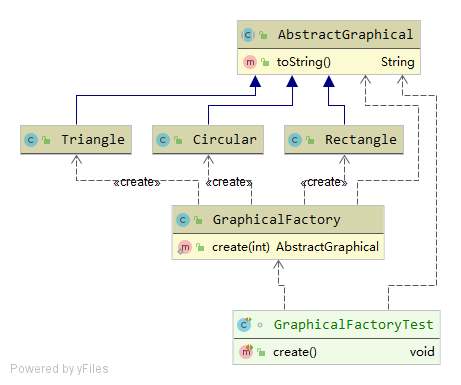
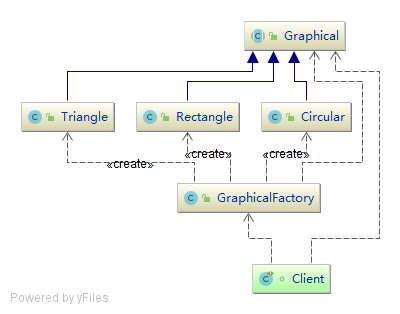
工厂模式🏗

diff --git a/factory/src/test/java/io/github/lvgocc/factory/method/AbstractGraphicalFactoryTest.java b/factory/src/test/java/io/github/lvgocc/factory/method/AbstractGraphicalFactoryTest.java
@@ -5,27 +5,29 @@ import org.junit.jupiter.api.Test;
 /**
  * 工厂方法测试类
  *
+ * client
+ *
  * @author lvgorice@gmail.com
  * @date 2020/10/8 23:28
  * @since 1.0.0
  */
-class AbstractFactoryTest {
+class AbstractGraphicalFactoryTest {
 
     @Test
     void creat() {
-        AbstractFactory circularFactory = new CircularFactory();
+        AbstractGraphicalFactory circularFactory = new CircularFactory();
         Graphical circular = circularFactory.creat();
         circular.description();
 
         System.out.println();
 
-        AbstractFactory rectangleFactory = new RectangleFactory();
+        AbstractGraphicalFactory rectangleFactory = new RectangleFactory();
         Graphical rectangle = rectangleFactory.creat();
         rectangle.description();
 
         System.out.println();
 
-        AbstractFactory triangleFactory = new TriangleFactory();
+        AbstractGraphicalFactory triangleFactory = new TriangleFactory();
         Graphical triangle = triangleFactory.creat();
         triangle.description();
     }

diff --git a/factory/src/test/java/io/github/lvgocc/factory/simple/GraphicalFactoryTest.java b/factory/src/test/java/io/github/lvgocc/factory/simple/GraphicalFactoryTest.java
@@ -6,6 +6,8 @@ import org.junit.jupiter.api.Test;
 /**
  * 图形工厂测试类
  *
+ * client
+ *
  * @author lvgorice@gmail.com
  * @date 2020/10/8 22:17
  * @since 1.0.0
@@ -14,13 +16,13 @@ class GraphicalFactoryTest {
 
     @Test
     void create() {
-        final AbstractGraphical circular = GraphicalFactory.create(0);
+        final Graphical circular = GraphicalFactory.create(0);
         Assertions.assertEquals(circular.toString(), "Circular");
 
-        final AbstractGraphical rectangle = GraphicalFactory.create(1);
+        final Graphical rectangle = GraphicalFactory.create(1);
         Assertions.assertEquals(rectangle.toString(), "Rectangle");
 
-        final AbstractGraphical triangle = GraphicalFactory.create(2);
+        final Graphical triangle = GraphicalFactory.create(2);
         Assertions.assertEquals(triangle.toString(), "Triangle");
     }
 }

diff --git a/factory/src/main/java/io/github/lvgocc/factory/method/AbstractGraphicalFactory.java b/factory/src/main/java/io/github/lvgocc/factory/method/AbstractGraphicalFactory.java
@@ -10,8 +10,8 @@ import org.slf4j.LoggerFactory;
  * @date 2020/10/8 23:16
  * @since 1.0.0
  */
-public abstract class AbstractFactory {
-    Logger logger = LoggerFactory.getLogger(AbstractFactory.class);
+public abstract class AbstractGraphicalFactory {
+    Logger logger = LoggerFactory.getLogger(AbstractGraphicalFactory.class);
 
     /**
      * 创建一个图形

diff --git a/factory/src/main/java/io/github/lvgocc/factory/method/CircularFactory.java b/factory/src/main/java/io/github/lvgocc/factory/method/CircularFactory.java
@@ -9,7 +9,7 @@ import io.github.lvgocc.factory.util.ThreadUtil;
  * @date 2020/10/8 23:27
  * @since 1.0.0
  */
-public class CircularFactory extends AbstractFactory {
+public class CircularFactory extends AbstractGraphicalFactory {
     /**
      * 将创建复杂的圆形过程封装到工厂里。
      * 1. 选定圆形位置；

diff --git a/factory/src/test/java/io/github/lvgocc/factory/simple/AbstractGraphicalTest.java b/factory/src/test/java/io/github/lvgocc/factory/simple/AbstractGraphicalTest.java
@@ -14,7 +14,7 @@ class AbstractGraphicalTest {
 
     @Test
     void testToString() {
-        final AbstractGraphical abstractGraphical = new AbstractGraphical() {
+        final Graphical abstractGraphical = new Graphical() {
         };
         Assertions.assertEquals(abstractGraphical.toString(), "");
     }

diff --git a/factory/src/main/java/io/github/lvgocc/factory/method/TriangleFactory.java b/factory/src/main/java/io/github/lvgocc/factory/method/TriangleFactory.java
@@ -9,7 +9,7 @@ import io.github.lvgocc.factory.util.ThreadUtil;
  * @date 2020/10/8 23:52
  * @since 1.0.0
  */
-public class TriangleFactory extends AbstractFactory {
+public class TriangleFactory extends AbstractGraphicalFactory {
 
     /**
      * 通过三角形工厂创建一个复杂的三角形

diff --git a/factory/src/main/java/io/github/lvgocc/factory/method/RectangleFactory.java b/factory/src/main/java/io/github/lvgocc/factory/method/RectangleFactory.java
@@ -9,7 +9,7 @@ import io.github.lvgocc.factory.util.ThreadUtil;
  * @date 2020/10/8 23:52
  * @since 1.0.0
  */
-public class RectangleFactory extends AbstractFactory {
+public class RectangleFactory extends AbstractGraphicalFactory {
     /**
      * 通过工厂创建一个复杂的矩形
      *

diff --git a/factory/src/main/java/io/github/lvgocc/factory/simple/GraphicalFactory.java b/factory/src/main/java/io/github/lvgocc/factory/simple/GraphicalFactory.java
@@ -14,7 +14,7 @@ public class GraphicalFactory {
     public static final int TRIANGLE = 2;
 
 
-    public static AbstractGraphical create(int type) {
+    public static Graphical create(int type) {
         switch (type) {
             case CIRCULAR:
                 return new Circular();

diff --git a/factory/src/main/java/io/github/lvgocc/factory/simple/Graphical.java b/factory/src/main/java/io/github/lvgocc/factory/simple/Graphical.java
@@ -7,7 +7,7 @@ package io.github.lvgocc.factory.simple;
  * @date 2020/10/8 21:33
  * @since 1.0.0
  */
-public abstract class AbstractGraphical {
+public abstract class Graphical {
     @Override
     public String toString() {
         return this.getClass().getSimpleName();

diff --git a/factory/src/main/java/io/github/lvgocc/factory/simple/Rectangle.java b/factory/src/main/java/io/github/lvgocc/factory/simple/Rectangle.java
@@ -7,5 +7,5 @@ package io.github.lvgocc.factory.simple;
  * @date 2020/10/8 22:10
  * @since 1.0.0
  */
-public class Rectangle extends AbstractGraphical {
+public class Rectangle extends Graphical {
 }

diff --git a/factory/src/main/java/io/github/lvgocc/factory/simple/Circular.java b/factory/src/main/java/io/github/lvgocc/factory/simple/Circular.java
@@ -7,5 +7,5 @@ package io.github.lvgocc.factory.simple;
  * @date 2020/10/8 21:55
  * @since 1.0.0
  */
-public class Circular extends AbstractGraphical {
+public class Circular extends Graphical {
 }

diff --git a/factory/src/main/java/io/github/lvgocc/factory/simple/Triangle.java b/factory/src/main/java/io/github/lvgocc/factory/simple/Triangle.java
@@ -7,5 +7,5 @@ package io.github.lvgocc.factory.simple;
  * @date 2020/10/8 22:10
  * @since 1.0.0
  */
-public class Triangle extends AbstractGraphical {
+public class Triangle extends Graphical {
 }
